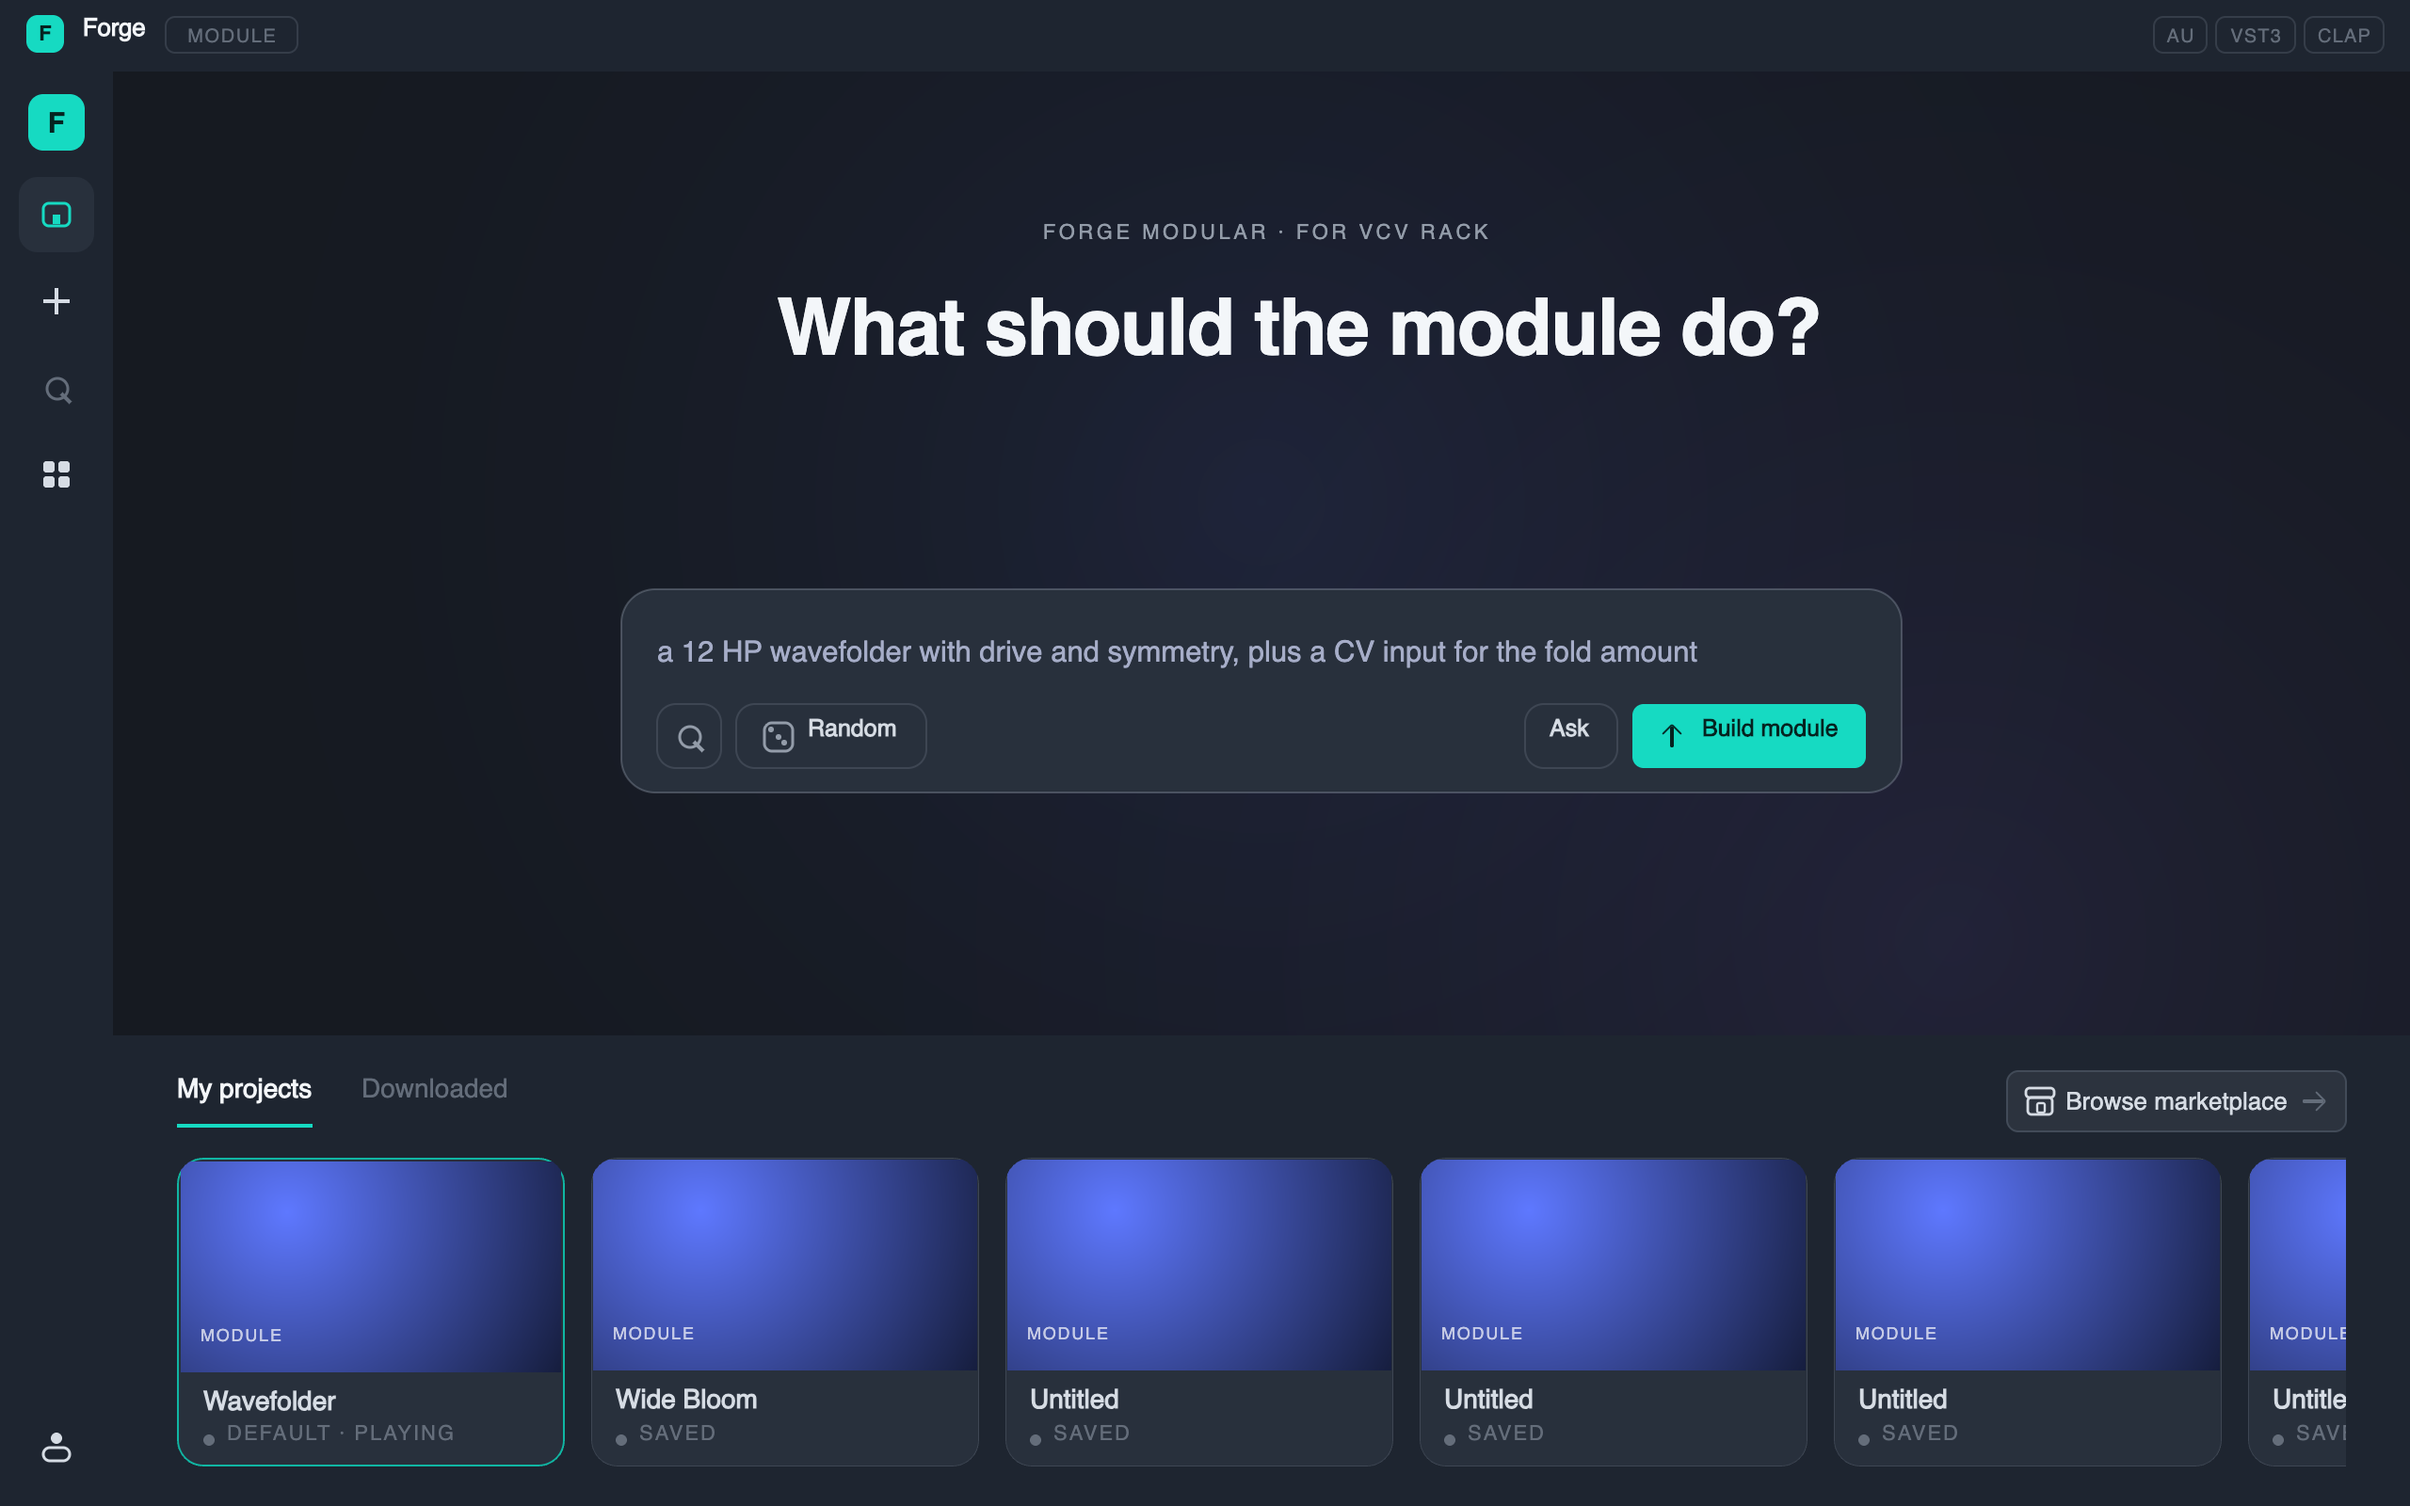
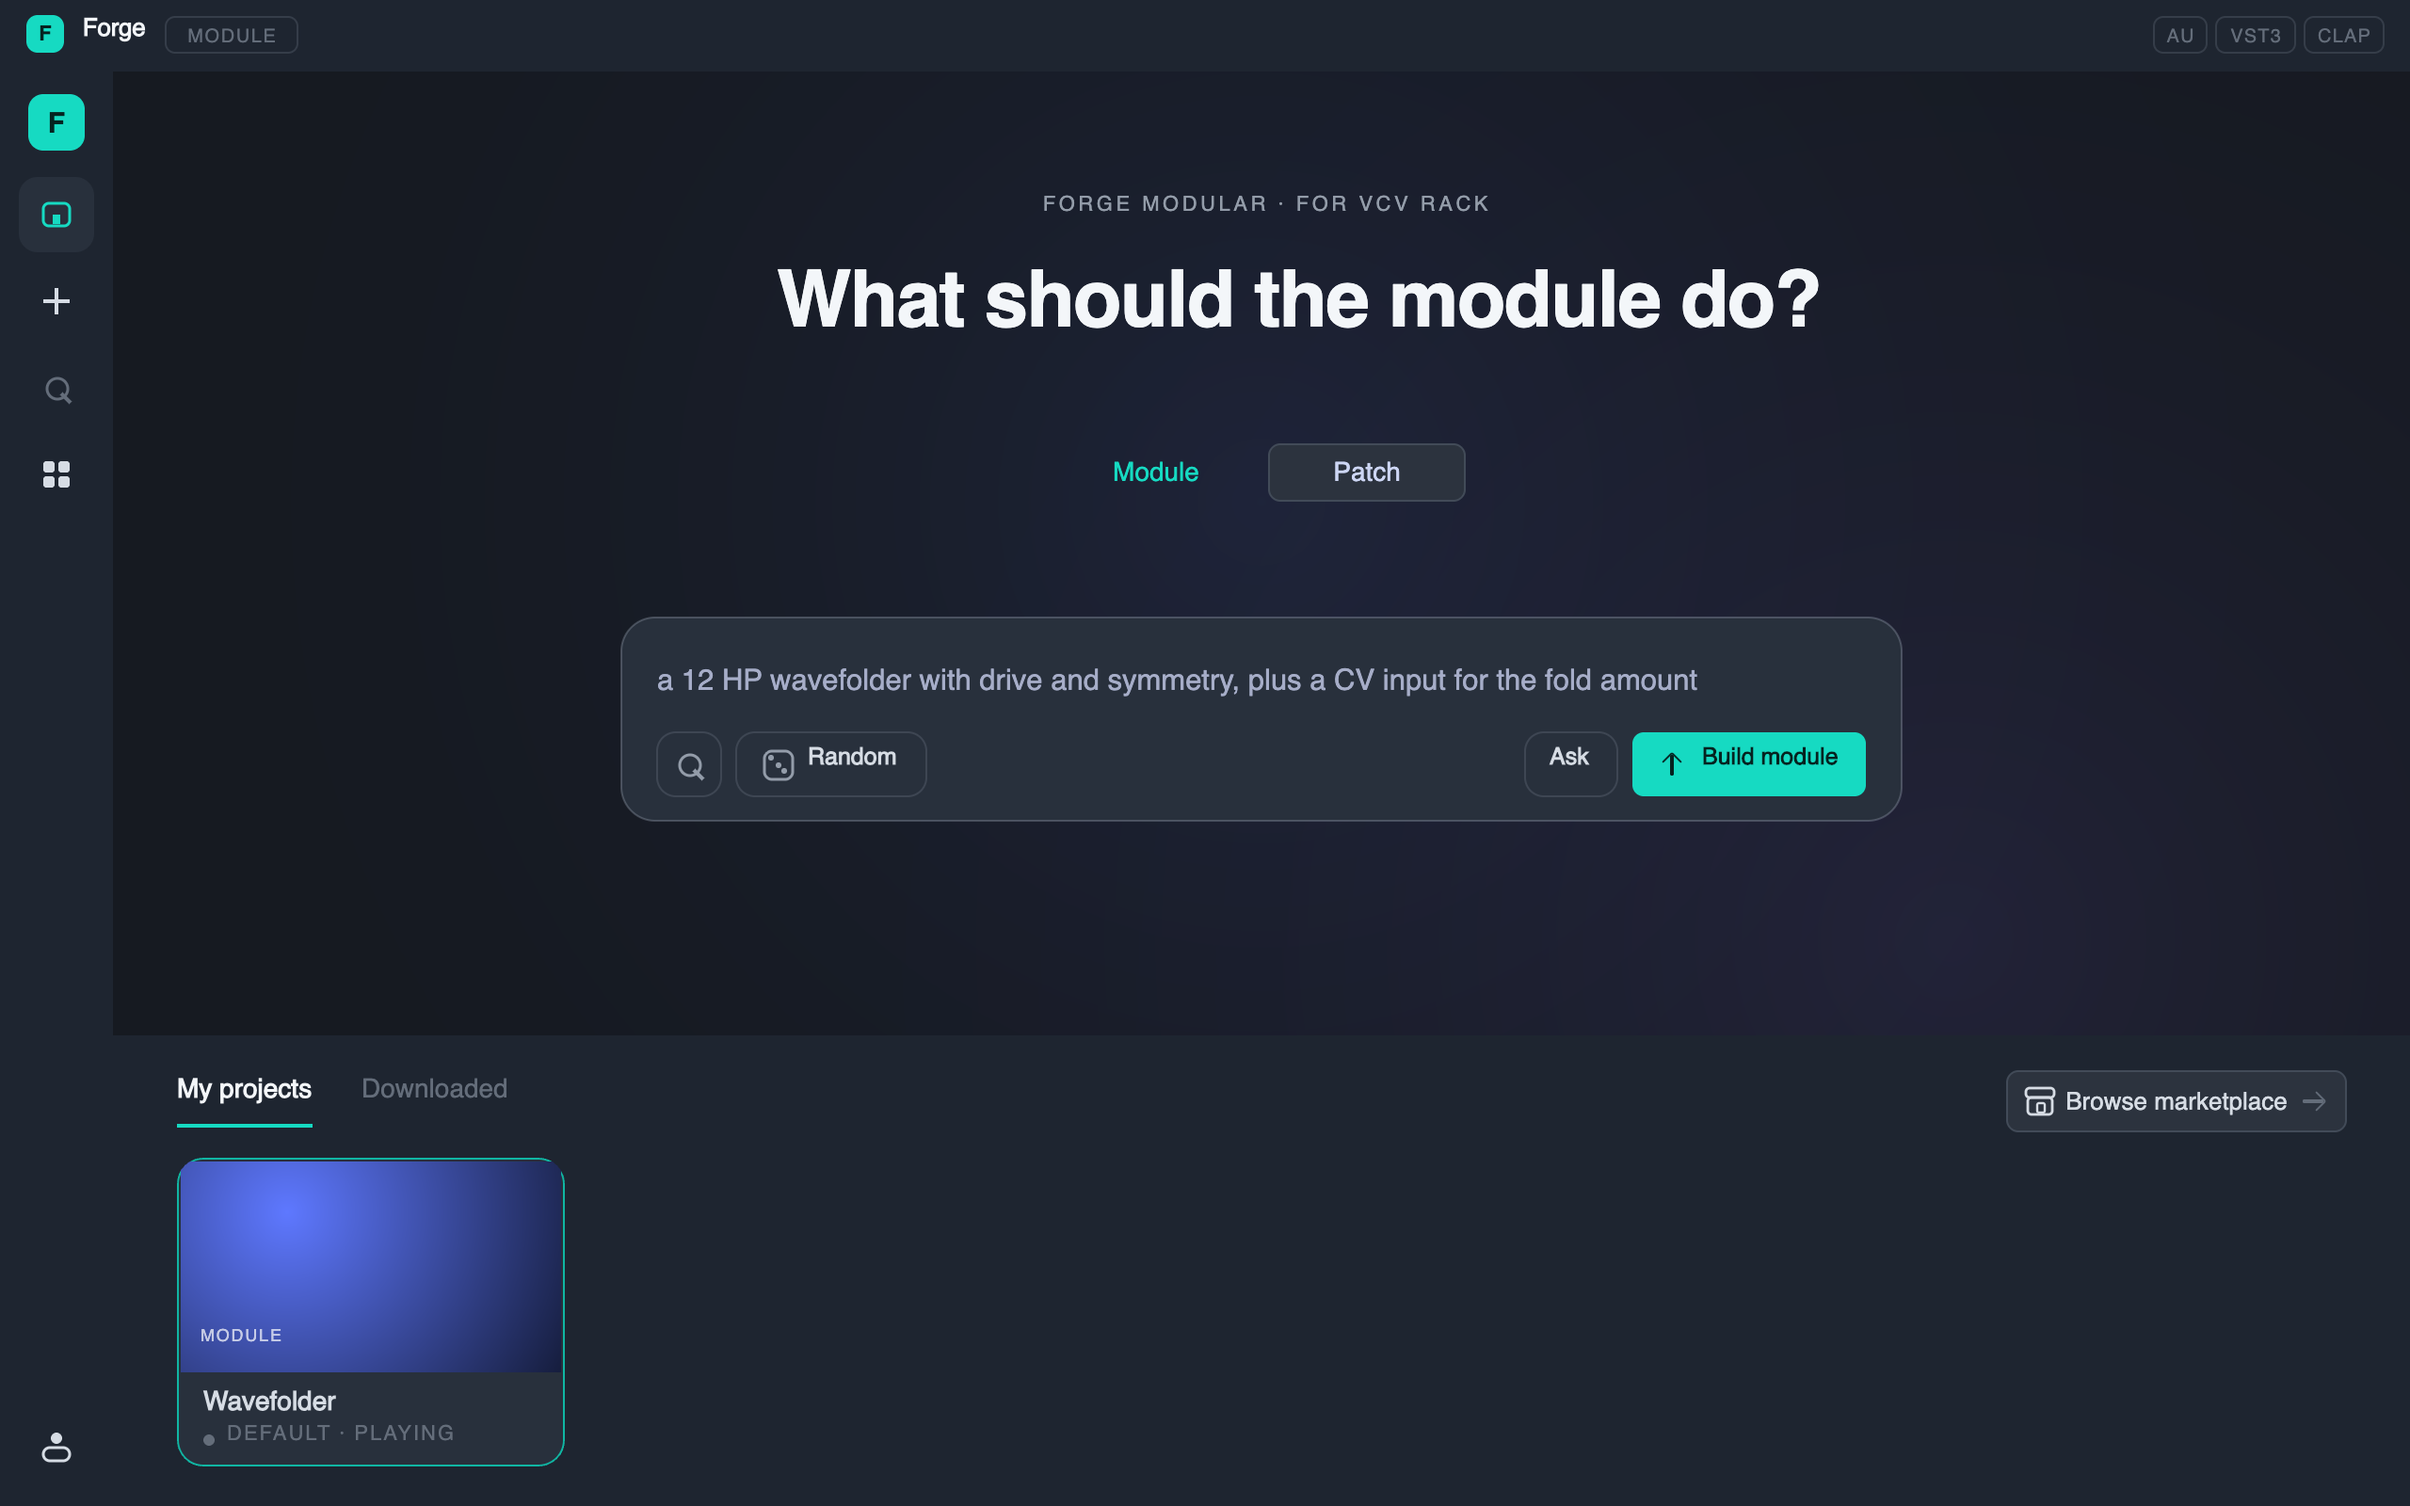
Phase 3 done: tabs centred and switching, measured rather than guessed
Four attempts at centring failed because all four aimed at the container.
Measuring took one run and said the container was fine: justify_content
was working, and each TAB was being sized to the full row width, so
centring two 1100px children inside 1100px put one at x=-554 and the other
at +554. An explicit preferred_width on the buttons fixed it -- x=442 and
x=554, 104 wide, adjacent in the middle.

The behaviour test asserts both directions: clicking Patch moves the
artifact, the hero title, the badge and the Build label, and clicking
Module moves them all back. Both sides, because asserting one side of a
boolean is what let "Build always made a patch" ship. Negative-controlled:
gutting the tab handler fails four assertions, restoring it passes 49
across 8 cases.

8.3/255 against Forge Instrument, up from 7.2 because the tabs are a real
product difference rather than drift.

The lesson is in the handoff: measure before the third attempt, never after
the fourth. This is the second time today a debugger or a measurement
answered in one run what careful reasoning got wrong over several.

diff --git a/forge-seam/test/test_chrome_no_leak.cpp b/forge-seam/test/test_chrome_no_leak.cpp
@@ -273,3 +273,49 @@ TEST_CASE("Forge Modular's view tree can be walked", "[.crash]") {
     INFO("walked " << views << " views");
     CHECK(views > 100);       // a real chrome, not a stub
 }
+
+TEST_CASE("clicking a tab switches the artifact, both ways", "[seam]") {
+    // The whole of it: the tab must move the mode, and the mode must reach every
+    // string that depends on it. Both directions, because asserting one side of
+    // a boolean is what let "Build always made a patch" ship once already.
+    HermeticProjects isolated;
+    forge_modular::ForgeModularShell shell;
+    pulp::state::StateStore store;
+    shell.set_state_store(&store);
+    shell.define_parameters(store);
+    pulp::format::PrepareContext pc;
+    pc.sample_rate = kSr; pc.max_buffer_size = kFrames;
+    pc.input_channels = 1; pc.output_channels = 2;
+    shell.prepare(pc);
+    auto view = shell.create_view();
+    REQUIRE(view != nullptr);
+
+    pulp::view::TextButton* module_tab = nullptr;
+    pulp::view::TextButton* patch_tab = nullptr;
+    std::function<void(pulp::view::View&)> find = [&](pulp::view::View& v) {
+        if (auto* b = dynamic_cast<pulp::view::TextButton*>(&v)) {
+            if (b->label() == "Module") module_tab = b;
+            if (b->label() == "Patch") patch_tab = b;
+        }
+        for (std::size_t i = 0; i < v.child_count(); ++i) find(*v.child_at(i));
+    };
+    find(*view);
+    REQUIRE(module_tab != nullptr);
+    REQUIRE(patch_tab != nullptr);
+    REQUIRE(patch_tab->on_click);          // a tab with no handler is decoration
+
+    CHECK(shell.artifact() == forge_modular::Artifact::module);
+    CHECK(shell.chrome_copy().hero_title == "What should the module do?");
+    CHECK(shell.composer_row().right[1].label == "Build module");
+
+    patch_tab->on_click();
+    CHECK(shell.artifact() == forge_modular::Artifact::patch);
+    CHECK(shell.chrome_copy().hero_title == "What should the patch do?");
+    CHECK(shell.chrome_copy().badge == "PATCH");
+    CHECK(shell.composer_row().right[1].label == "Build patch");
+
+    module_tab->on_click();               // and back, so it is not one-way
+    CHECK(shell.artifact() == forge_modular::Artifact::module);
+    CHECK(shell.chrome_copy().hero_title == "What should the module do?");
+    CHECK(shell.composer_row().right[1].label == "Build module");
+}

diff --git a/forge-seam/modular/modular_shell.cpp b/forge-seam/modular/modular_shell.cpp
@@ -151,6 +151,10 @@ std::unique_ptr<View> ForgeModularShell::home_accessory() {
     const auto add_tab = [&](const char* label, Artifact which) -> TextButton* {
         auto b = std::make_unique<TextButton>(label);
         auto* ptr = b.get();
+        // Measured: without an explicit width each tab took the FULL row width
+        // (1100), so centring two of them put one at x=-554 and the other at
+        // +554. justify_content was never the problem -- the children were.
+        b->flex().preferred_width = 104;
         b->flex().preferred_height = 30;
         b->flex().flex_grow = 0;
         b->flex().flex_shrink = 0;

diff --git a/forge-seam/HOW-TO-RESUME.md b/forge-seam/HOW-TO-RESUME.md
@@ -50,7 +50,7 @@ visual work before that was noticed.
 | 0 — no-leak guard | **done**, fails on a 1px shared change, passes when reverted |
 | 1 — the seam | **done**, 3 changes, 3 products byte-identical, each proven live |
 | 2 — Forge Modular runs Forge's UI | **done**, 7.2/255 vs Forge Instrument, verified windowed |
-| 3 — the tabs | **in progress** — see below |
+| 3 — the tabs | **done** — centred, switch both ways, negative-controlled |
 | 4–8 | not started; see `../SPEC-forge-modular.md` |
 
 ## Phase 3, exactly where it stands
@@ -66,10 +66,28 @@ Working, and visible in `design/prototype/modular-tabs-wip.png`:
   the tree and drop a half-typed prompt. It leaves a non-empty prompt alone.
 - Clicking the already-active tab is a no-op rather than a redundant rebuild.
 
-**Not working: the row will not centre.** The two tabs sit at opposite edges of
-the hero. Tried, in order: `align_self = center` on the accessory in chrome;
-`dim_width = 100%` plus `justify_content = center` on the row; `flex_grow = 0`
-and `flex_shrink = 0` on each button. None moved them.
+**The centring is fixed, and the four failed guesses were all aimed at the wrong
+thing.** Measuring took one run:
+
+```
+row   x=60  w=1100  kids=2
+TAB Module x=-554 w=1100
+TAB Patch  x=554  w=1100
+```
+
+`justify_content: center` was working perfectly. Each **tab** was sized to the
+full row width, so centring two 1100px children inside 1100px put one at -554
+and the other at +554. An explicit `preferred_width` on the buttons fixed it:
+
+```
+TAB Module x=442 w=104
+TAB Patch  x=554 w=104
+```
+
+Four attempts went at the container — `align_self`, `dim_width`,
+`justify_content`, `flex_grow/shrink` — because the symptom looked like a
+container problem. Ten lines of measurement said otherwise. **Measure before the
+third attempt, never after the fourth.**
 
 **Do not guess at this a fourth time — and the measurement itself crashed.**
 
